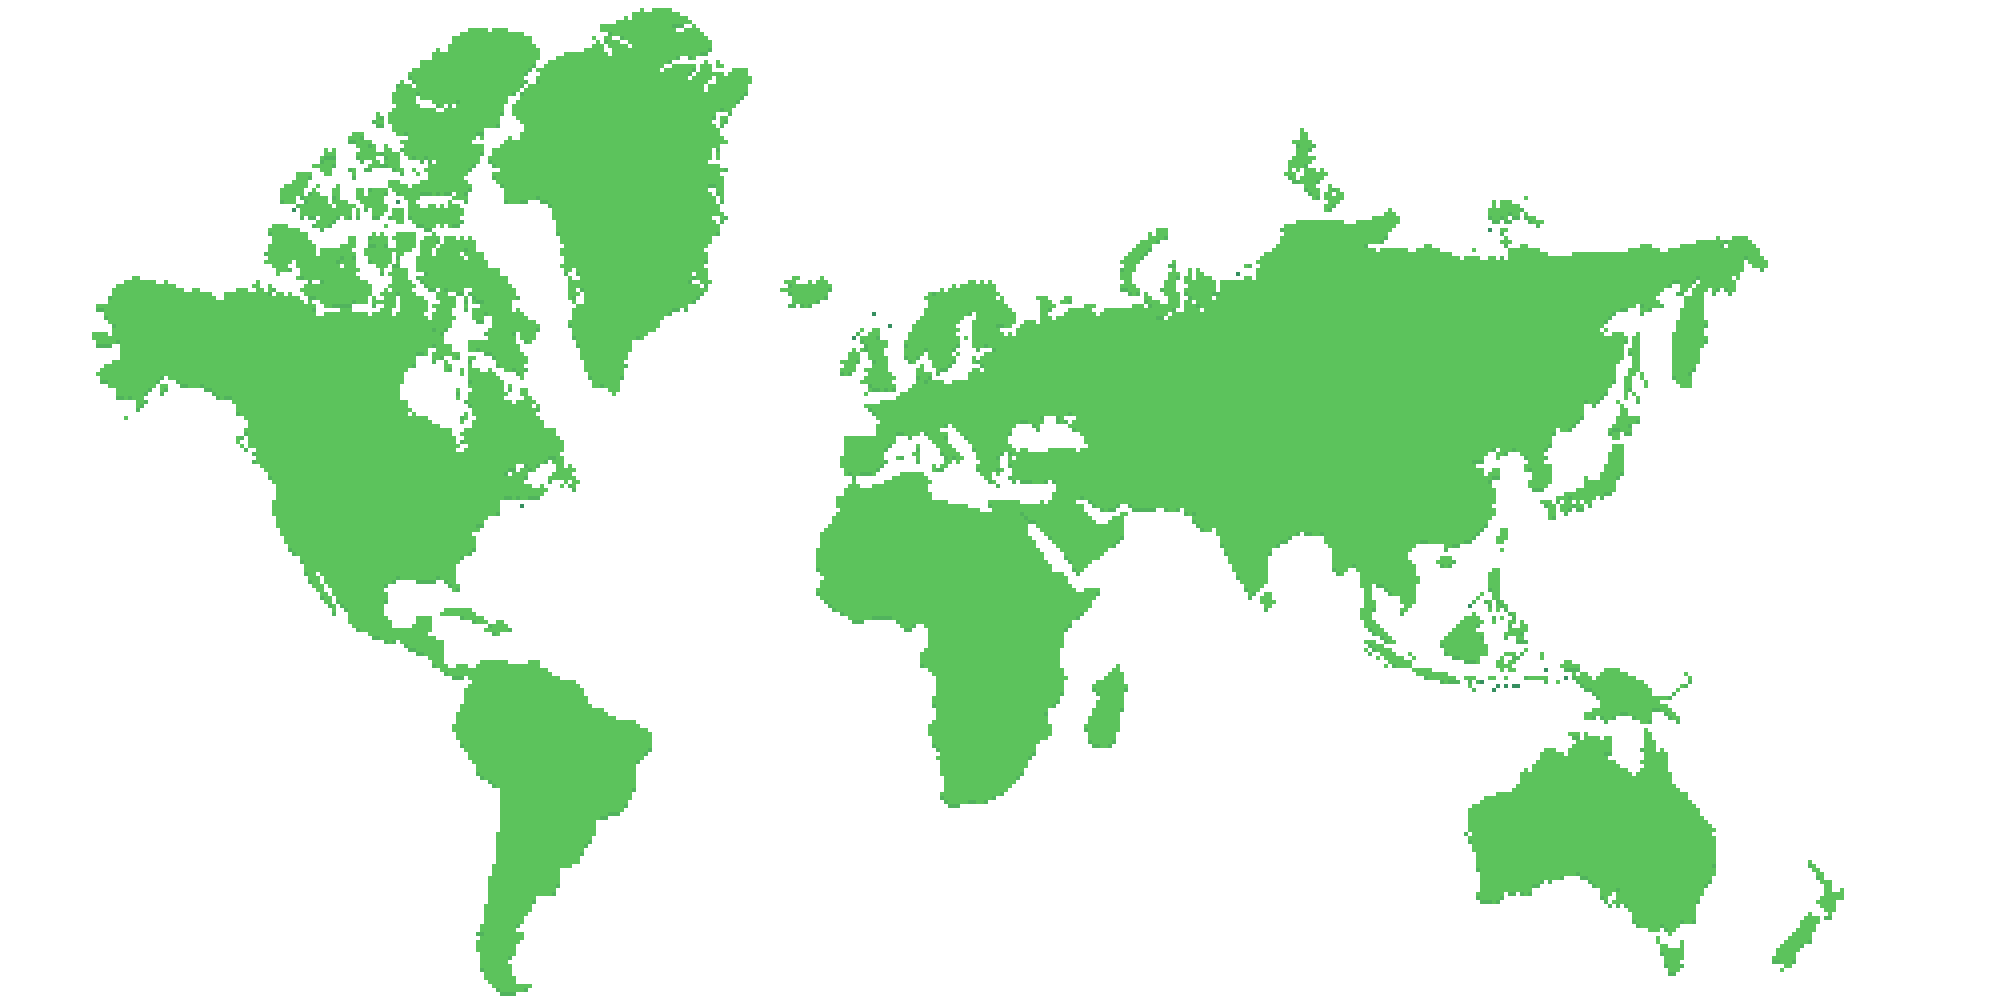
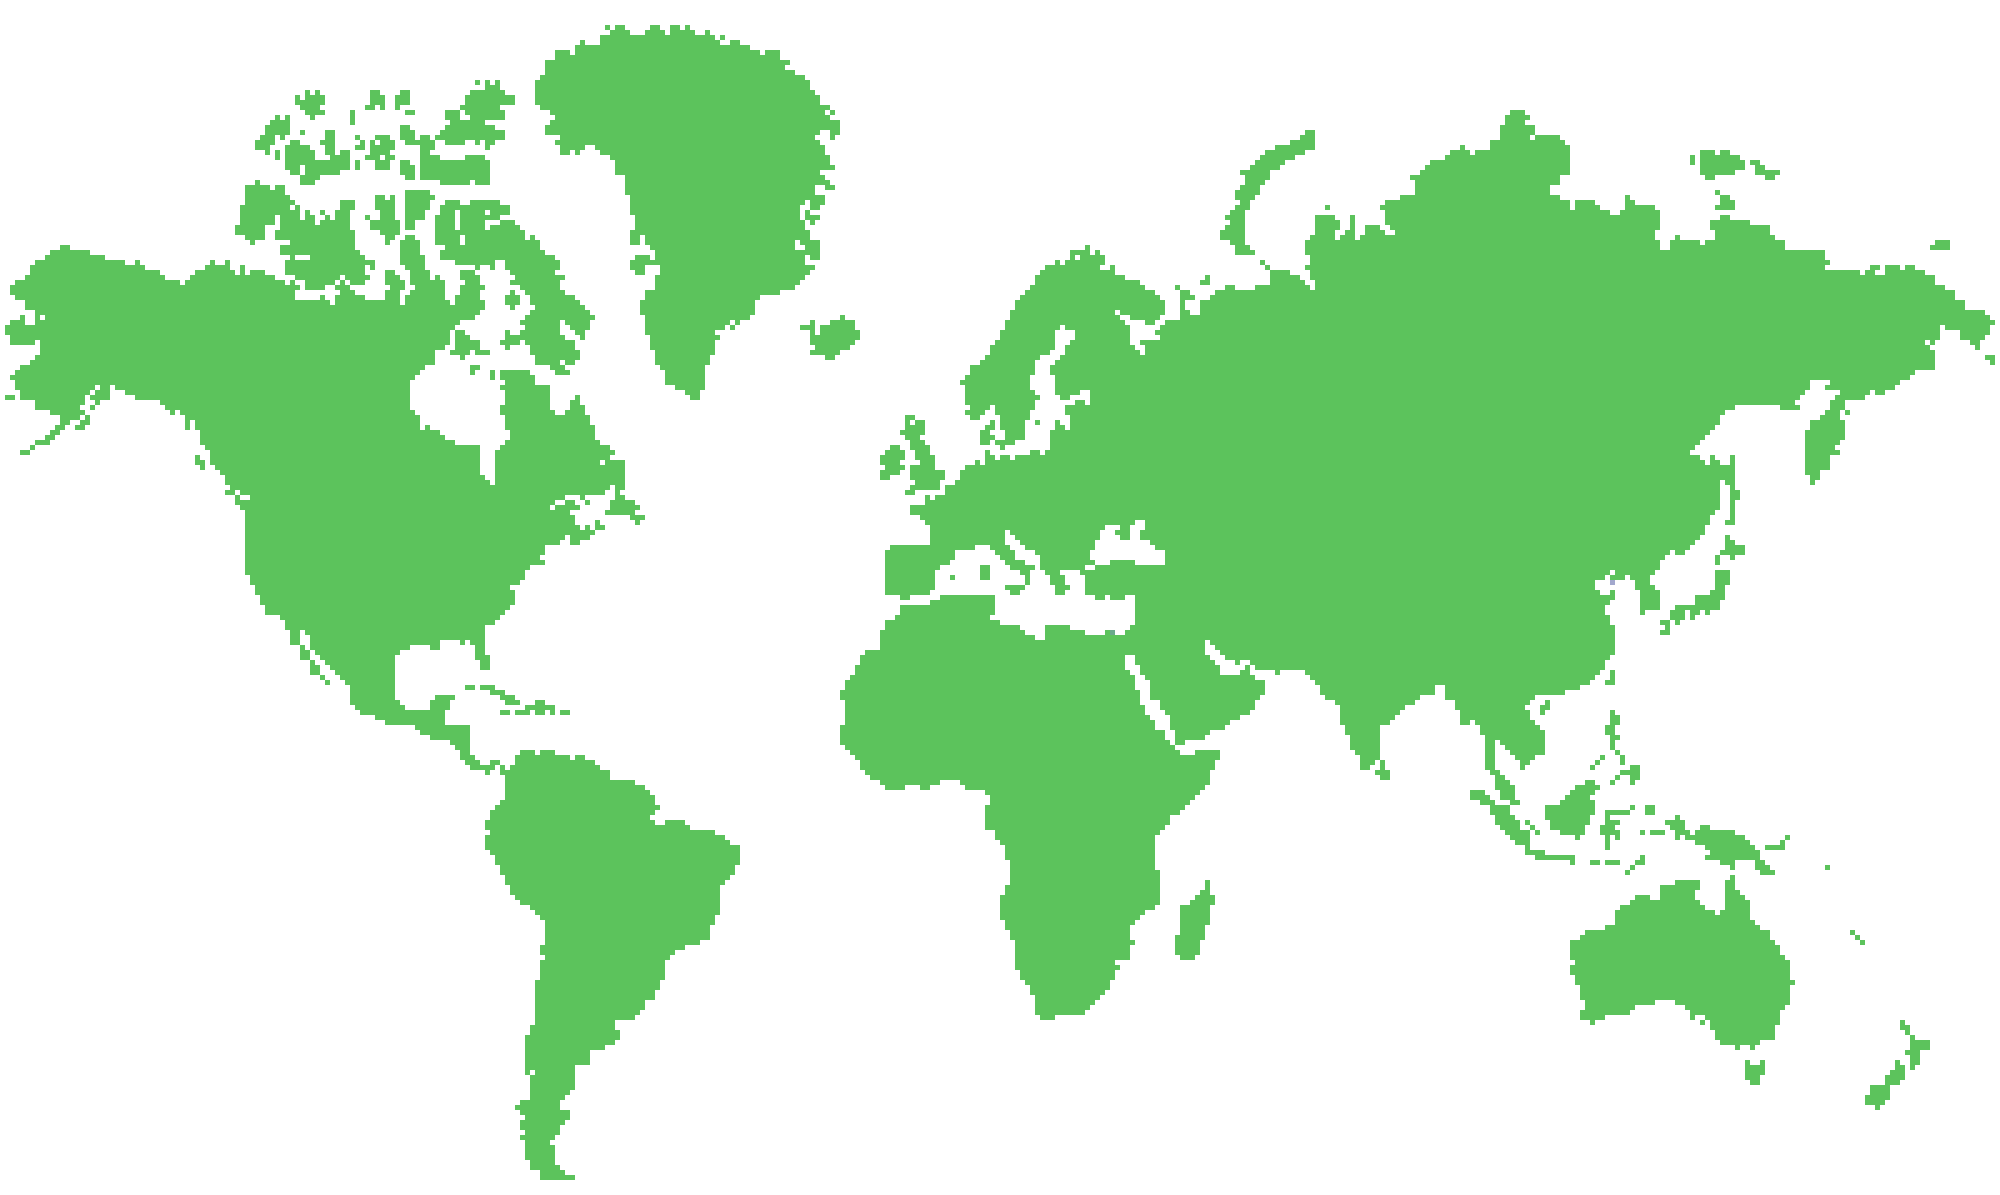
trying to do europe

diff --git a/script.js b/script.js
@@ -38,6 +38,8 @@ const background = document.getElementById('background');
 const tradeOptions = document.getElementById('tradeOptions');
 const exploitedTradeOption = document.getElementById('exploitedTradeOption');
 const fairTradeOption = document.getElementById('fairTradeOption');
+const tradeInfo = document.getElementById('tradeInfo');
+const payMEBtn = document.getElementById('payMonthlyExpenses');
 
 function getRandInt(min, max) {
    // min and max are included
@@ -54,13 +56,13 @@ let randomInterval = getRandInt(500, 1000);
 let randomX, randomY;
 let randomIndex;
 let repetition = 0;
-let africaMiddleEast = [];
+let africa = [];
 let asia = [];
 let australia = [];
 let nAmerica = [];
 let sAmerica = [];
 let europe = [];
-let tiles = [asia, australia, africaMiddleEast, sAmerica, nAmerica, europe];
+let tiles = [asia, australia, africa, sAmerica, nAmerica, europe];
 const tileSize = 20;
 let boatDrag = false;
 let competition;
@@ -81,11 +83,33 @@ let lemon = false;
 let cloudBools = {
    sAmerica: true,
    europe: true,
-   africaMiddleEast: true,
+   africa: true,
    asia: true,
    australia: true,
 };
 let fairTrade;
+let monthlyTradeCosts = 0;
+let totalSalaryCosts;
+
+//Event Listeners
+buyBtn.addEventListener('click', drag);
+document.addEventListener('mousedown', mousedownHandler);
+document.addEventListener('mousemove', mousemoveHandler);
+document.addEventListener('mouseup', mouseupHandler);
+background.addEventListener('load', createTiles);
+modalBtn.addEventListener('click', payTaxes);
+buyBoatBtn.addEventListener('click', boatPlace);
+cancelBtn.addEventListener('click', cancel);
+buyCompetitionBtn.addEventListener('click', buyCompetition);
+fairTradeOption.addEventListener('click', () => {
+   fairTrade = true;
+   chooseTradeOption();
+});
+exploitedTradeOption.addEventListener('click', () => {
+   fairTrade = false;
+   chooseTradeOption();
+});
+payMEBtn.addEventListener('click', payMonthlyExpenses);
 
 //Tile class for placing stuff
 class tile {
@@ -126,27 +150,30 @@ class tile {
    drawInfo() {
       if (!this.viewInfo.bool) return;
 
-      function centerText(text, viewInfo) {
-         return viewInfo.x + viewInfo.w / 2 - ctx.measureText(text).width / 2;
-      }
+      ctx.fillStyle = 'red';
+      ctx.fillRect(this.x, this.y, this.size, this.size);
 
-      ctx.lineWidth = 2;
-      ctx.strokeStyle = 'rgb(0, 0, 255)';
-      ctx.strokeRect(this.x, this.y, this.size, this.size);
-      ctx.lineWidth = 1;
+      // function centerText(text, viewInfo) {
+      //    return viewInfo.x + viewInfo.w / 2 - ctx.measureText(text).width / 2;
+      // }
 
-      ctx.fillStyle = 'rgb(0, 0, 0, 0.5)';
-      ctx.fillRect(this.viewInfo.x, this.viewInfo.y, this.viewInfo.w, this.viewInfo.h);
+      // ctx.lineWidth = 2;
+      // ctx.strokeStyle = 'rgb(0, 0, 255)';
+      // ctx.strokeRect(this.x, this.y, this.size, this.size);
+      // ctx.lineWidth = 1;
 
-      ctx.fillStyle = 'rgb(230, 230, 230)';
-      const titleText = 'Tile Info';
-      ctx.fillText(titleText, centerText(titleText, this.viewInfo), this.viewInfo.y + 10);
+      // ctx.fillStyle = 'rgb(0, 0, 0, 0.5)';
+      // ctx.fillRect(this.viewInfo.x, this.viewInfo.y, this.viewInfo.w, this.viewInfo.h);
 
-      const taxText = `Tax rate: ${this.taxRate}%`;
-      ctx.fillText(taxText, centerText(taxText, this.viewInfo), this.viewInfo.y + 25);
+      // ctx.fillStyle = 'rgb(230, 230, 230)';
+      // const titleText = 'Tile Info';
+      // ctx.fillText(titleText, centerText(titleText, this.viewInfo), this.viewInfo.y + 10);
 
-      const wageText = `MW: $${this.minimumWage}`;
-      ctx.fillText(wageText, centerText(wageText, this.viewInfo), this.viewInfo.y + 35);
+      // const taxText = `Tax rate: ${this.taxRate}%`;
+      // ctx.fillText(taxText, centerText(taxText, this.viewInfo), this.viewInfo.y + 25);
+
+      // const wageText = `MW: $${this.minimumWage}`;
+      // ctx.fillText(wageText, centerText(wageText, this.viewInfo), this.viewInfo.y + 35);
    }
 
    draw() {
@@ -164,8 +191,6 @@ class tile {
          mouseY < this.y + this.size
       ) {
          this.inside = true;
-         console.log(this.x);
-         console.log(this.y);
       } else {
          this.inside = false;
          this.color = 'rgb(0, 0, 0)';
@@ -173,17 +198,17 @@ class tile {
 
       if (!this.minimumWage) {
          if (this.continent === 'nAmerica') {
-            this.minimumWage = getRandInt(500, 1000);
+            this.minimumWage = getRandInt(1800, 3500);
          } else if (this.continent === 'sAmerica') {
-            this.minimumWage = getRandInt(300, 700);
+            this.minimumWage = getRandInt(7, 600);
          } else if (this.continent === 'asia') {
-            this.minimumWage = getRandInt(12, 200);
+            this.minimumWage = getRandInt(6, 550);
          } else if (this.continent === 'australia') {
-            this.minimumWage = getRandInt(600, 1200);
+            this.minimumWage = getRandInt(1800, 3500);
          } else if (this.continent === 'europe') {
-            this.minimumWage = getRandInt(300, 2110);
+            this.minimumWage = getRandInt(1000, 3000);
          } else if (this.continent === 'africa') {
-            this.minimumWage = getRandInt(12, 200);
+            this.minimumWage = getRandInt(7, 550);
          }
       }
 
@@ -227,9 +252,11 @@ class tile {
          this.viewInfo.bool = true;
          this.viewInfo.x = mouseX - this.viewInfo.w < 0 ? mouseX : mouseX - this.viewInfo.w;
          this.viewInfo.y = mouseY < this.viewInfo.h ? mouseY : mouseY - this.viewInfo.h;
-      } else if (mouseDown) {
-         this.viewInfo.bool = false;
+         console.log(this.id);
       }
+      // else if (mouseDown) {
+      //    this.viewInfo.bool = false;
+      // }
 
       if (this.status === 'player' || this.status === 'competition') {
          ctx.drawImage(this.restaurantType, this.x, this.y, this.size, this.size);
@@ -335,25 +362,6 @@ class cloud {
    }
 }
 
-//Event Listeners
-buyBtn.addEventListener('click', drag);
-document.addEventListener('mousedown', mousedownHandler);
-document.addEventListener('mousemove', mousemoveHandler);
-document.addEventListener('mouseup', mouseupHandler);
-background.addEventListener('load', createTiles);
-modalBtn.addEventListener('click', payTaxes);
-buyBoatBtn.addEventListener('click', boatPlace);
-cancelBtn.addEventListener('click', cancel);
-buyCompetitionBtn.addEventListener('click', buyCompetition);
-fairTradeOption.addEventListener('click', () => {
-   fairTrade = true;
-   chooseTradeOption()
-})
-exploitedTradeOption.addEventListener('click', () => {
-   fairTrade = false;
-   chooseTradeOption()
-})
-
 //Event Functions
 function drag() {
    if (money >= 50 && !dragRestaurant && !boatDrag) {
@@ -373,6 +381,7 @@ function mouseupHandler() {
 function mousemoveHandler(event) {
    mouseX = event.x - cnv.getBoundingClientRect().x;
    mouseY = event.y - cnv.getBoundingClientRect().y;
+   console.log(mouseX, mouseY);
 }
 let tileIdentifier = 0;
 
@@ -399,31 +408,26 @@ function createTiles() {
          }
          if (!containsOcean) {
             tileIdentifier++;
+
+            const europeBorder = [181, 163, 120, 98, 71, 141];
+
             if (x >= 250 && x <= 400 && y >= 350 && y <= 550) {
                sAmerica.push(new tile(x, y, tileSize, 'sAmerica', tileIdentifier));
-            } else if (
-               x >= 410 &&
-               x <= 590 &&
-               y >= 258 &&
-               y <= 508 &&
-               tileIdentifier !== 217 &&
-               tileIdentifier !== 231 &&
-               tileIdentifier !== 247
-            ) {
-               africaMiddleEast.push(new tile(x, y, tileSize, 'africaMiddleEast', tileIdentifier));
+            } else if (x >= 430 && x <= 575 && y >= 310 && y <= 510) {
+               africa.push(new tile(x, y, tileSize, 'africa', tileIdentifier));
             } else if (x >= 770 && x <= 970 && y >= 400 && y <= 550) {
                australia.push(new tile(x, y, tileSize, 'australia', tileIdentifier));
             } else if (
-               (x >= 480 && x <= 660 && y >= 80 && y <= 200) ||
-               (x >= 280 && x <= 380 && y >= 0 && y <= 100)
+               (x >= 460 && x <= 640 && y >= 280 && y <= 130) ||
+               europeBorder.includes(tileIdentifier)
             ) {
                europe.push(new tile(x, y, tileSize, 'europe', tileIdentifier));
             } else if (
-               x >= 410 &&
-               x <= 940 &&
+               x >= 460 &&
+               x <= 970 &&
                y >= 20 &&
                y <= 370
-               //africaMiddleEast.includes(new tile(x, y, tileSize, 'africaMiddleEast')) === false
+               //africa.includes(new tile(x, y, tileSize, 'africa')) === false
             ) {
                asia.push(new tile(x, y, tileSize, 'asia', tileIdentifier));
             } else {
@@ -495,7 +499,7 @@ function payTaxes() {
 }
 
 function monthlyExpenses() {
-   let totalSalaryCosts = 0;
+   totalSalaryCosts = 0;
    monthlyExpensesEl.style.display = 'block';
    mergedTiles = tiles.flat(1);
    for (let x = 0; x < mergedTiles.length; x++) {
@@ -503,9 +507,21 @@ function monthlyExpenses() {
          totalSalaryCosts += mergedTiles[x].minimumWage * 5;
       }
    }
+   if (monthlyTradeCosts !== 0) {
+      tradeInfo.innerHTML = monthlyTradeCosts;
+   }
    salaryInfo.innerHTML = totalSalaryCosts;
 }
 setTimeout(monthlyExpenses, 4500);
+
+function payMonthlyExpenses() {
+   money -= monthlyTradeCosts + totalSalaryCosts;
+   monthlyExpensesEl.style.display = 'none';
+   setTimeout(monthlyExpenses, 4500);
+   if (money < 0) {
+      console.log('bankrupt');
+   }
+}
 
 function boatPlace() {
    if (money >= 1000) {
@@ -614,6 +630,47 @@ function display() {
    reputationEl.innerHTML = reputation;
    trading();
 
+   ctx.strokeStyle = 'red';
+   ctx.beginPath();
+   ctx.moveTo(250, 350);
+   ctx.lineTo(250, 550);
+   ctx.lineTo(400, 550);
+   ctx.lineTo(400, 350);
+   ctx.lineTo(250, 350);
+   ctx.stroke();
+
+   ctx.beginPath();
+   ctx.moveTo(430, 310);
+   ctx.lineTo(430, 510);
+   ctx.lineTo(575, 510);
+   ctx.lineTo(575, 310);
+   ctx.lineTo(430, 310);
+   ctx.stroke();
+
+   ctx.beginPath();
+   ctx.moveTo(480, 80);
+   ctx.lineTo(480, 200);
+   ctx.lineTo(660, 200);
+   ctx.lineTo(660, 80);
+   ctx.lineTo(480, 80);
+   ctx.stroke();
+
+   ctx.beginPath();
+   ctx.moveTo(280, 0);
+   ctx.lineTo(280, 200);
+   ctx.lineTo(400, 200);
+   ctx.lineTo(400, 0);
+   ctx.lineTo(280, 0);
+   ctx.stroke();
+
+   ctx.beginPath();
+   ctx.moveTo(460, 20);
+   ctx.lineTo(460, 370);
+   ctx.lineTo(970, 370);
+   ctx.lineTo(970, 20);
+   ctx.lineTo(460, 20);
+   ctx.stroke();
+
    requestAnimationFrame(display);
 }
 
@@ -646,7 +703,7 @@ function trading() {
          document.body.style.cursor = 'pointer';
          if (mouseDown) {
             document.body.style.cursor = 'default';
-            tradeOptions.style.display = 'block'
+            tradeOptions.style.display = 'block';
          }
       } else {
          document.body.style.cursor = 'default';
@@ -660,12 +717,13 @@ function trading() {
    }
 }
 
-
 function chooseTradeOption() {
-   if(fairTrade) {
-
+   if (fairTrade) {
+      monthlyTradeCosts += 100;
+      reputation += 40;
    } else {
-
+      monthlyTradeCosts += 25;
+      reputation += 10;
    }
    trade = false;
    chosenTrade.trade = 'done';

diff --git a/index.html b/index.html
@@ -10,7 +10,7 @@
 <body>
     <img src="img/restaurant.png" alt="restaurant" style="display:none" id="restaurant">
     <img src="img/concurrence restaurant.png" alt="concurrence" style="display:none" id="competition">
-    <img src="img/world-map (1).png" alt="background" id="background" style="display:none">
+    <img src="img/world-map.png" alt="background" id="background" style="display:none">
     <img src="img/clouds.png" id="clouds-img" alt="clouds" style="display:none">
     <img src="img/boat.png" alt="boat" id="boat" style="display:none">
 
@@ -32,9 +32,10 @@
             <h4>Transnational Products</h4>
             <p>South America</p>
             <p><img src="img/blankTrade.png" alt="avocado" id="avocado" class="tnProduct"></p>
-            <p>Eurasia</p>
+            <p>Europe</p>
             <p><img src="img/blankTrade.png" alt="citron" id="citron" class="tnProduct"></p>
             <p>Africa / Middle East</p>
+            <p><img src="img/blankTrade.png" alt="watermelon" id="watermelon" class="tnProduct"></p>
             <p>Australia</p>
         </div>
     </div>
@@ -69,6 +70,7 @@
         <h1>Monthly Expenses</h1>
         <p>Transnational trades: <span id="tradeInfo">None</span></p>
         <p>Worker Salaries: <span id="salaryInfo"></span>$</p>
+        <button id="payMonthlyExpenses">Pay</button>
     </div>
 
 

diff --git a/style.css b/style.css
@@ -76,20 +76,24 @@ img {
 }
 
 #tradeOptions {
-   display:'none';
-   position:fixed;
+   display: 'none';
+   position: fixed;
    left: 300px;
    top: 300px;
    width: 300px;
    height: 300px;
-   
-   background:white;
+
+   background: white;
    display: none;
    background: rgb(255, 255, 255);
 }
 
 #monthlyExpenses {
+   background: white;
    display: none;
+   position: fixed;
+   top: 200;
+   left: 550;
 }
 
 .tnProduct {
